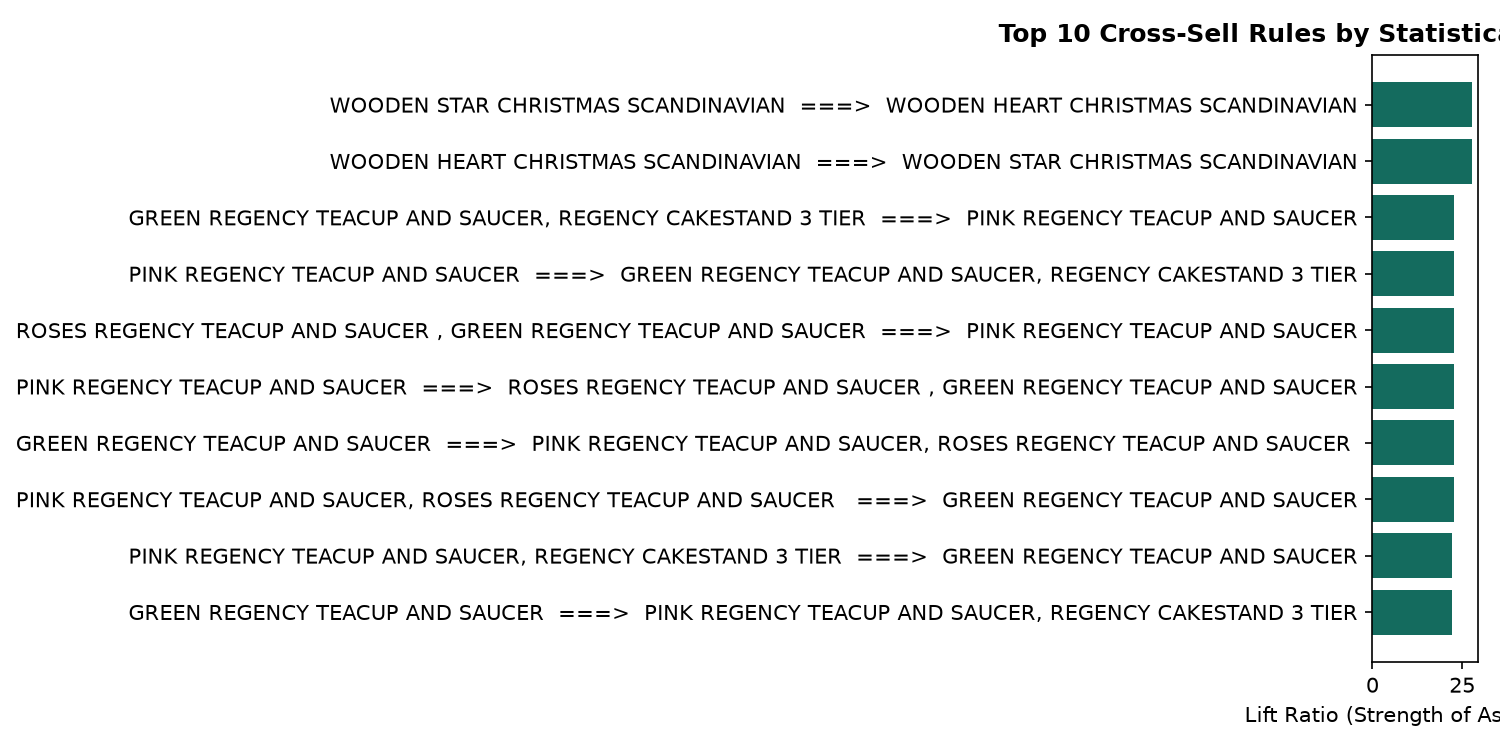
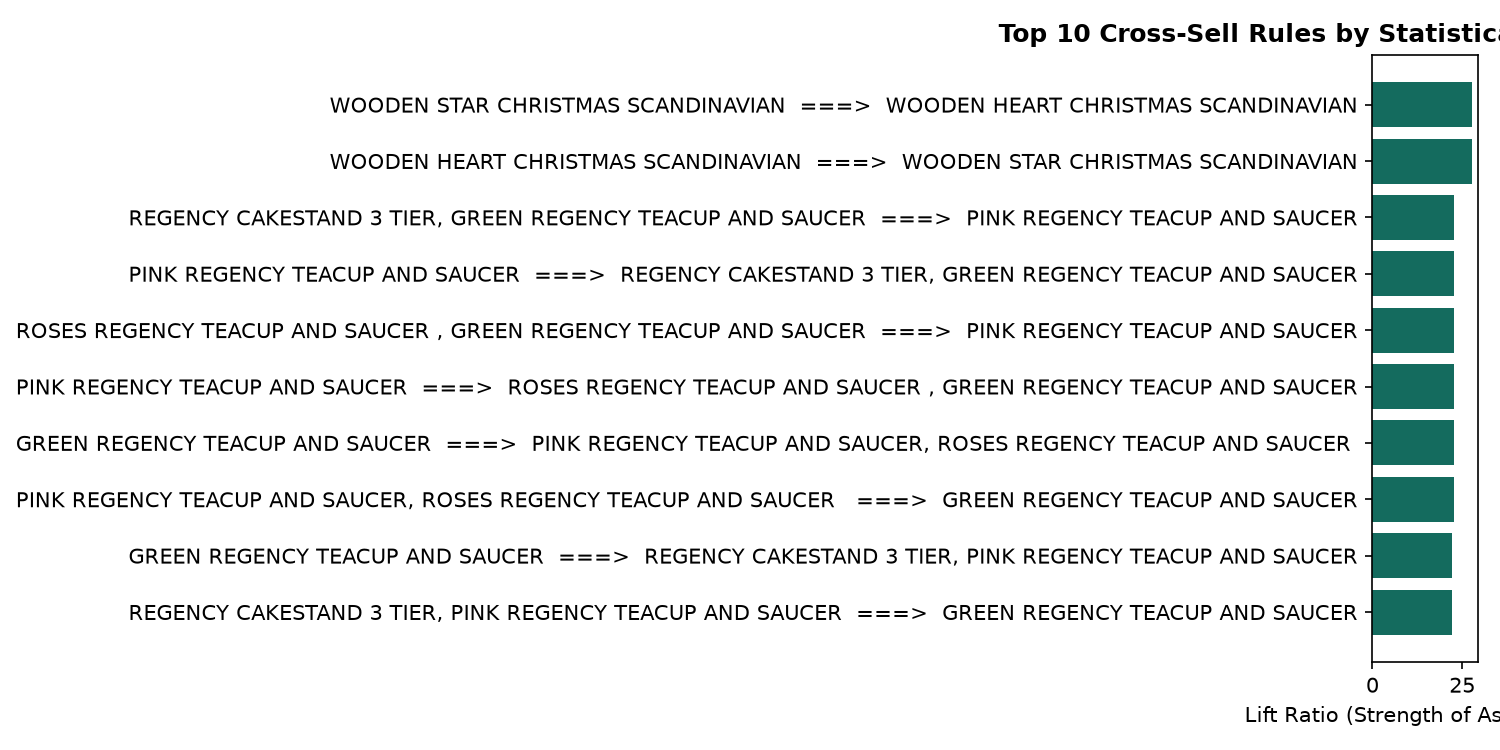
fix(dashboard): fix PeriodIndex serialization for Plotly cohort heatmap, update container widths and association rules

diff --git a/dashboard/app.py b/dashboard/app.py
@@ -118,21 +118,51 @@ st.markdown("""
         border-radius: 8px !important;
         overflow: hidden !important;
     }
+
+    /* Normal screenshot-friendly proportions */
+    .main .block-container {
+        max-width: 1220px !important;
+        padding-top: 1.5rem !important;
+        padding-bottom: 2.5rem !important;
+        padding-left: 2rem !important;
+        padding-right: 2rem !important;
+        margin: 0 auto !important;
+    }
+    
+    [data-testid="stImage"] {
+        display: flex !important;
+        justify-content: center !important;
+        align-items: center !important;
+        margin: 12px auto !important;
+    }
+    
+    [data-testid="stImage"] img {
+        max-width: 780px !important;
+        max-height: 460px !important;
+        object-fit: contain !important;
+        border-radius: 8px !important;
+        border: 1px solid rgba(128, 128, 128, 0.2) !important;
+        box-shadow: 0 4px 14px rgba(0, 0, 0, 0.08) !important;
+    }
+
+    .js-plotly-plot {
+        border-radius: 8px !important;
+        overflow: hidden !important;
+    }
 </style>
 """, unsafe_allow_html=True)
 
 # Helper function to style all plotly charts for dark/light theme transparency
-def style_chart(fig, title=None, height=None):
+def style_chart(fig, title=None, height=380):
     layout_update = {
         "paper_bgcolor": "rgba(0,0,0,0)",
         "plot_bgcolor": "rgba(0,0,0,0)",
         "font": dict(family="Atkinson Hyperlegible, sans-serif"),
         "margin": dict(l=24, r=24, t=44 if title else 24, b=24),
+        "height": height,
     }
     if title:
         layout_update["title"] = dict(text=title, font=dict(size=14, color=None))
-    if height:
-        layout_update["height"] = height
     fig.update_layout(**layout_update)
     fig.update_xaxes(showgrid=True, gridcolor="rgba(128, 128, 128, 0.15)")
     fig.update_yaxes(showgrid=True, gridcolor="rgba(128, 128, 128, 0.15)")
@@ -396,7 +426,11 @@ elif page == "🔗 Market Basket Analysis":
         
         fig_rules_img = os.path.join(FIGURES_DIR, "apriori_top_rules.png")
         if os.path.exists(fig_rules_img):
-            st.image(fig_rules_img, caption="Top Association Rules by Lift (Real Retail Baskets)", use_column_width=True)
+            st.image(
+                fig_rules_img,
+                caption="Top Association Rules by Lift (Real Retail Baskets)",
+                use_container_width=True
+            )
     else:
         st.warning("Run `python ml_pipeline/segmentation_basket.py` to generate rules.")
 
@@ -425,7 +459,7 @@ elif page == "⚠ Churn Early Warning":
         
         fig_churn_img = os.path.join(FIGURES_DIR, "churn_policy_comparison.png")
         if os.path.exists(fig_churn_img):
-            st.image(fig_churn_img, caption="Simulated Policy ROI vs Naive Contact Rules", use_column_width=True)
+            st.image(fig_churn_img, caption="Simulated Policy ROI vs Naive Contact Rules", use_container_width=True)
 
 
 # =============================================================================
@@ -444,12 +478,17 @@ elif page == "📉 Cohort Retention":
     cohort_size = cohort_pivot.iloc[:, 0]
     retention = cohort_pivot.divide(cohort_size, axis=0) * 100.0
     
+    # Convert PeriodIndex and column headers to string to fix JSON serialization in Plotly
+    retention.index = retention.index.astype(str)
+    retention_disp = retention.iloc[:, :12].copy()
+    retention_disp.columns = [f"M+{c}" for c in retention_disp.columns]
+    
     fig_heat = px.imshow(
-        retention.iloc[:, :12], text_auto=".0f", color_continuous_scale="YlGnBu",
+        retention_disp, text_auto=".0f", color_continuous_scale="YlGnBu",
         labels=dict(x="Months Since First Order", y="Signup Cohort", color="Retention %"),
         title="Monthly Customer Retention % by Acquisition Cohort"
     )
-    st.plotly_chart(style_chart(fig_heat), use_container_width=True)
+    st.plotly_chart(style_chart(fig_heat, height=420), use_container_width=True)
 
 
 # =============================================================================
@@ -598,7 +637,7 @@ elif page == "🔮 Forecasts & Trends":
 
     fig_fc_img = os.path.join(FIGURES_DIR, "forecast_rolling_backtest.png")
     if os.path.exists(fig_fc_img):
-        st.image(fig_fc_img, caption="Rolling-Origin Forecast Trajectories across 3 Walk-Forward Folds", use_column_width=True)
+        st.image(fig_fc_img, caption="Rolling-Origin Forecast Trajectories across 3 Walk-Forward Folds", use_container_width=True)
 
 
 # =============================================================================
